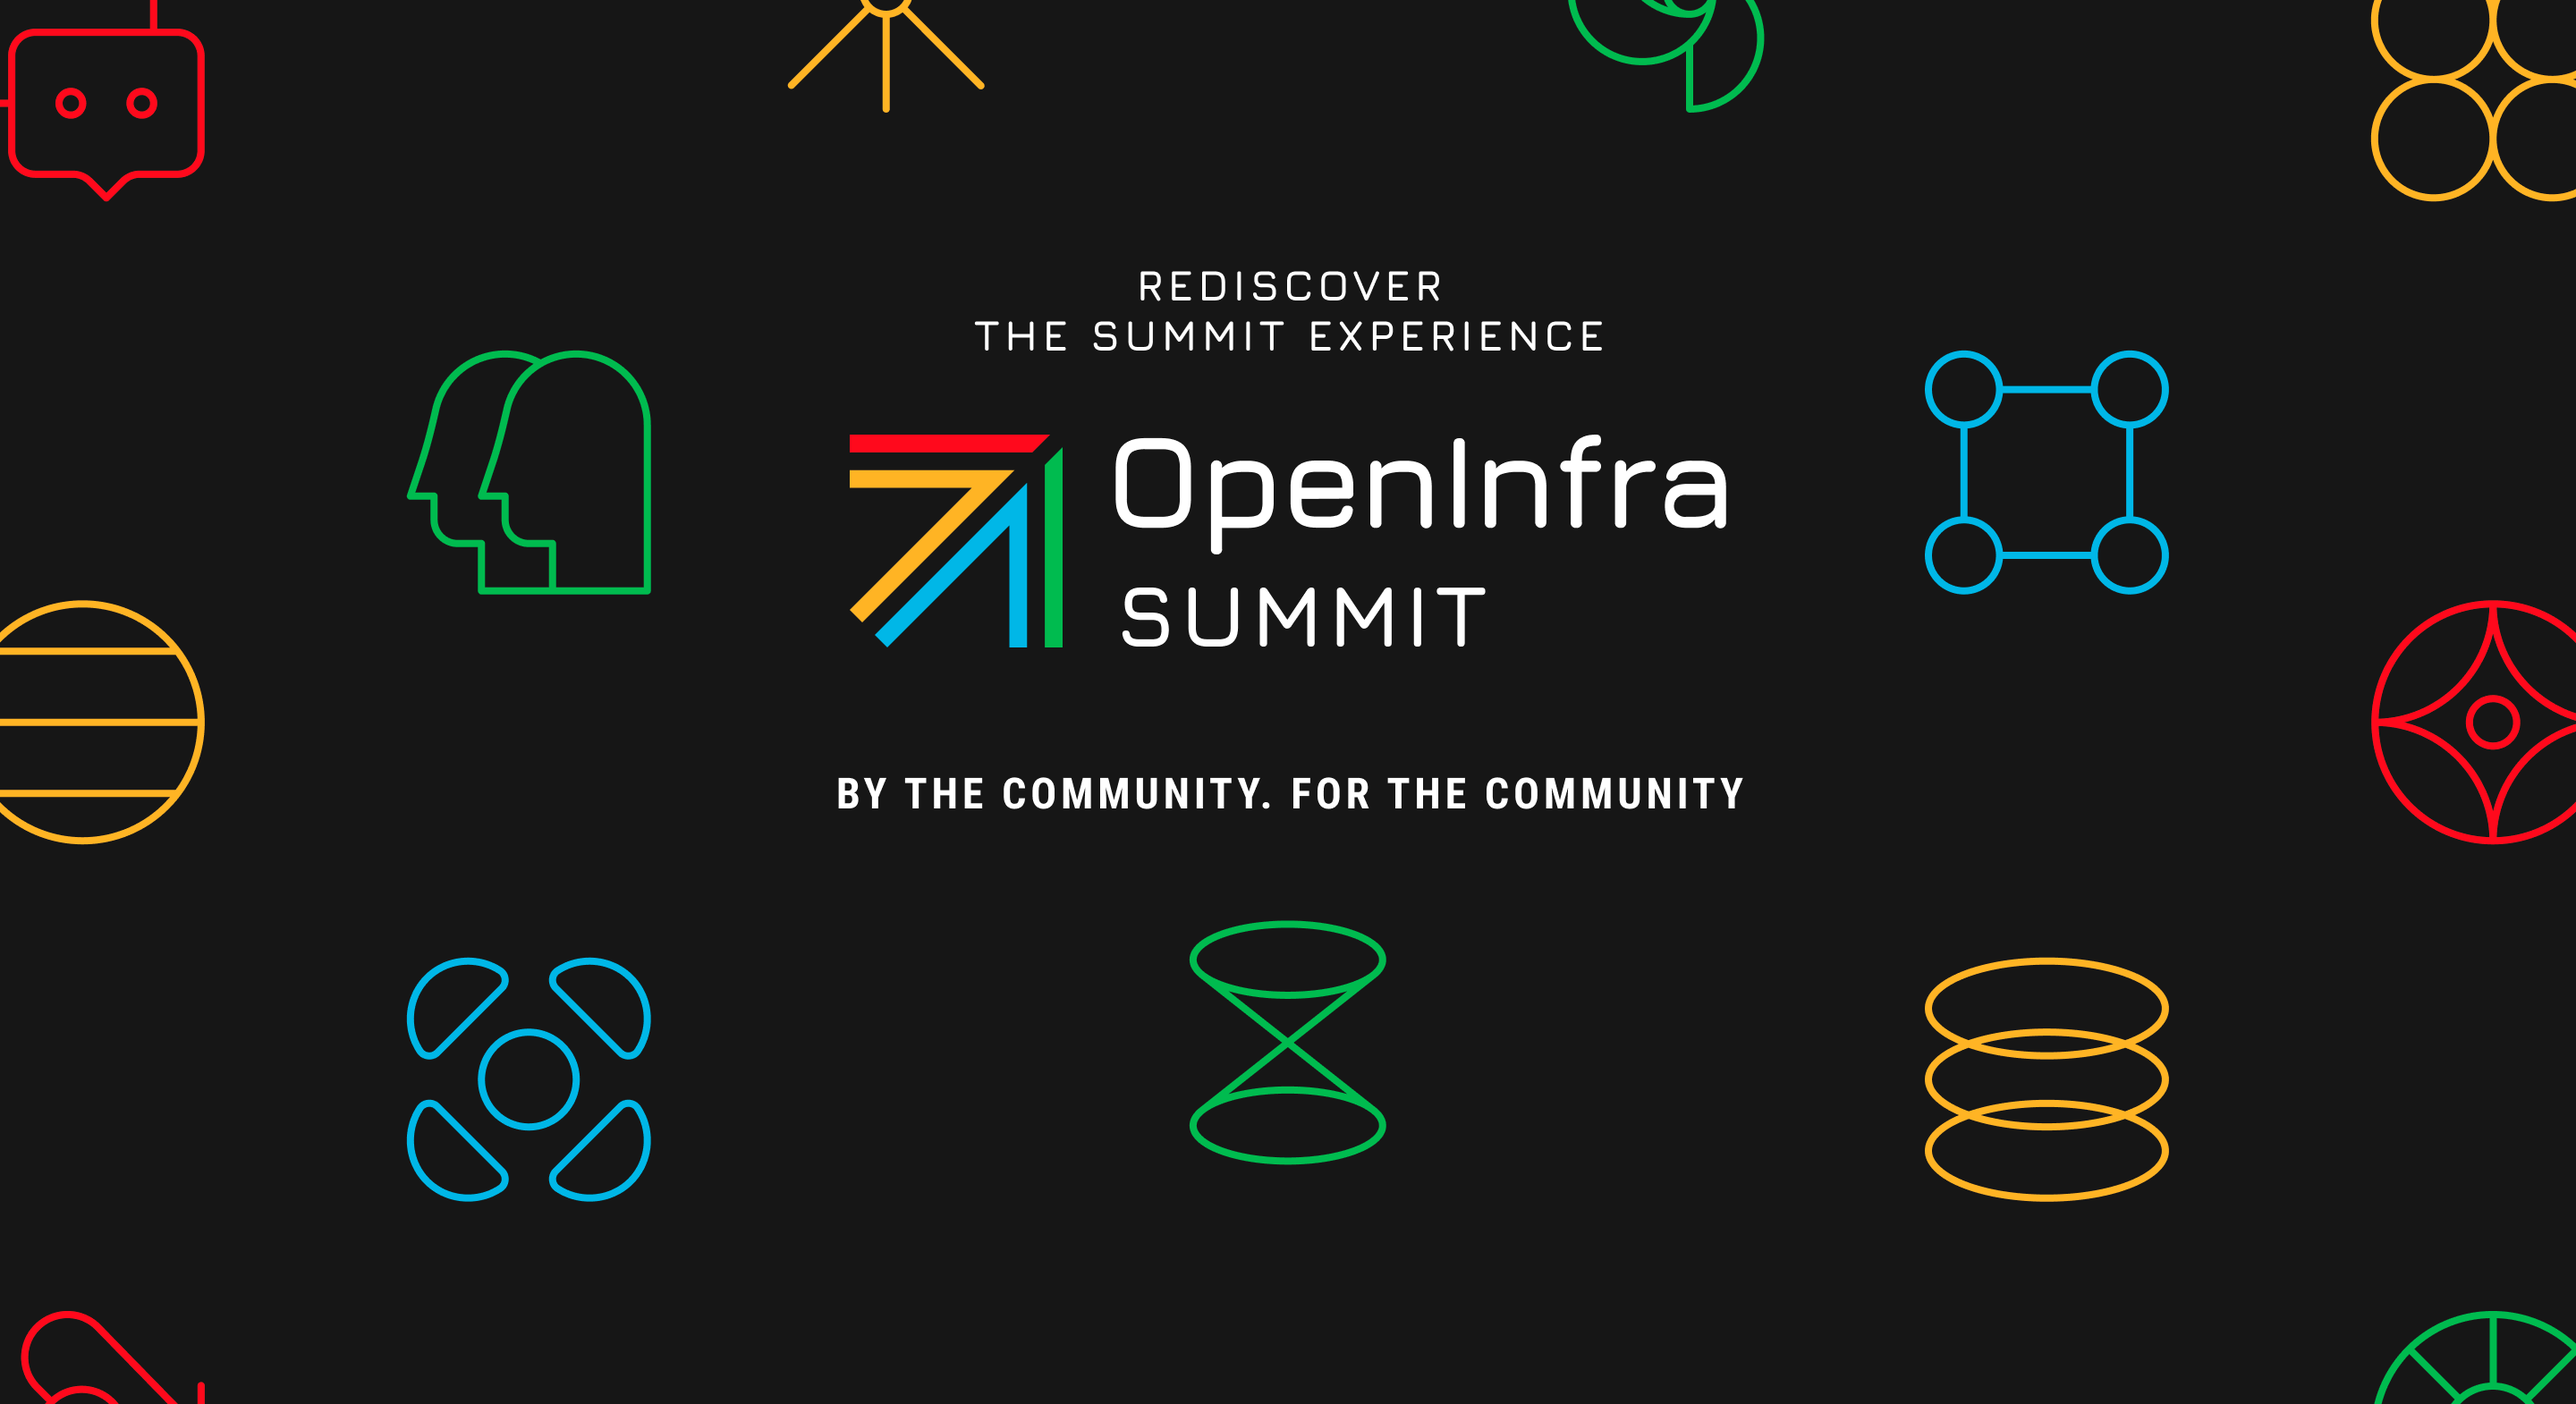
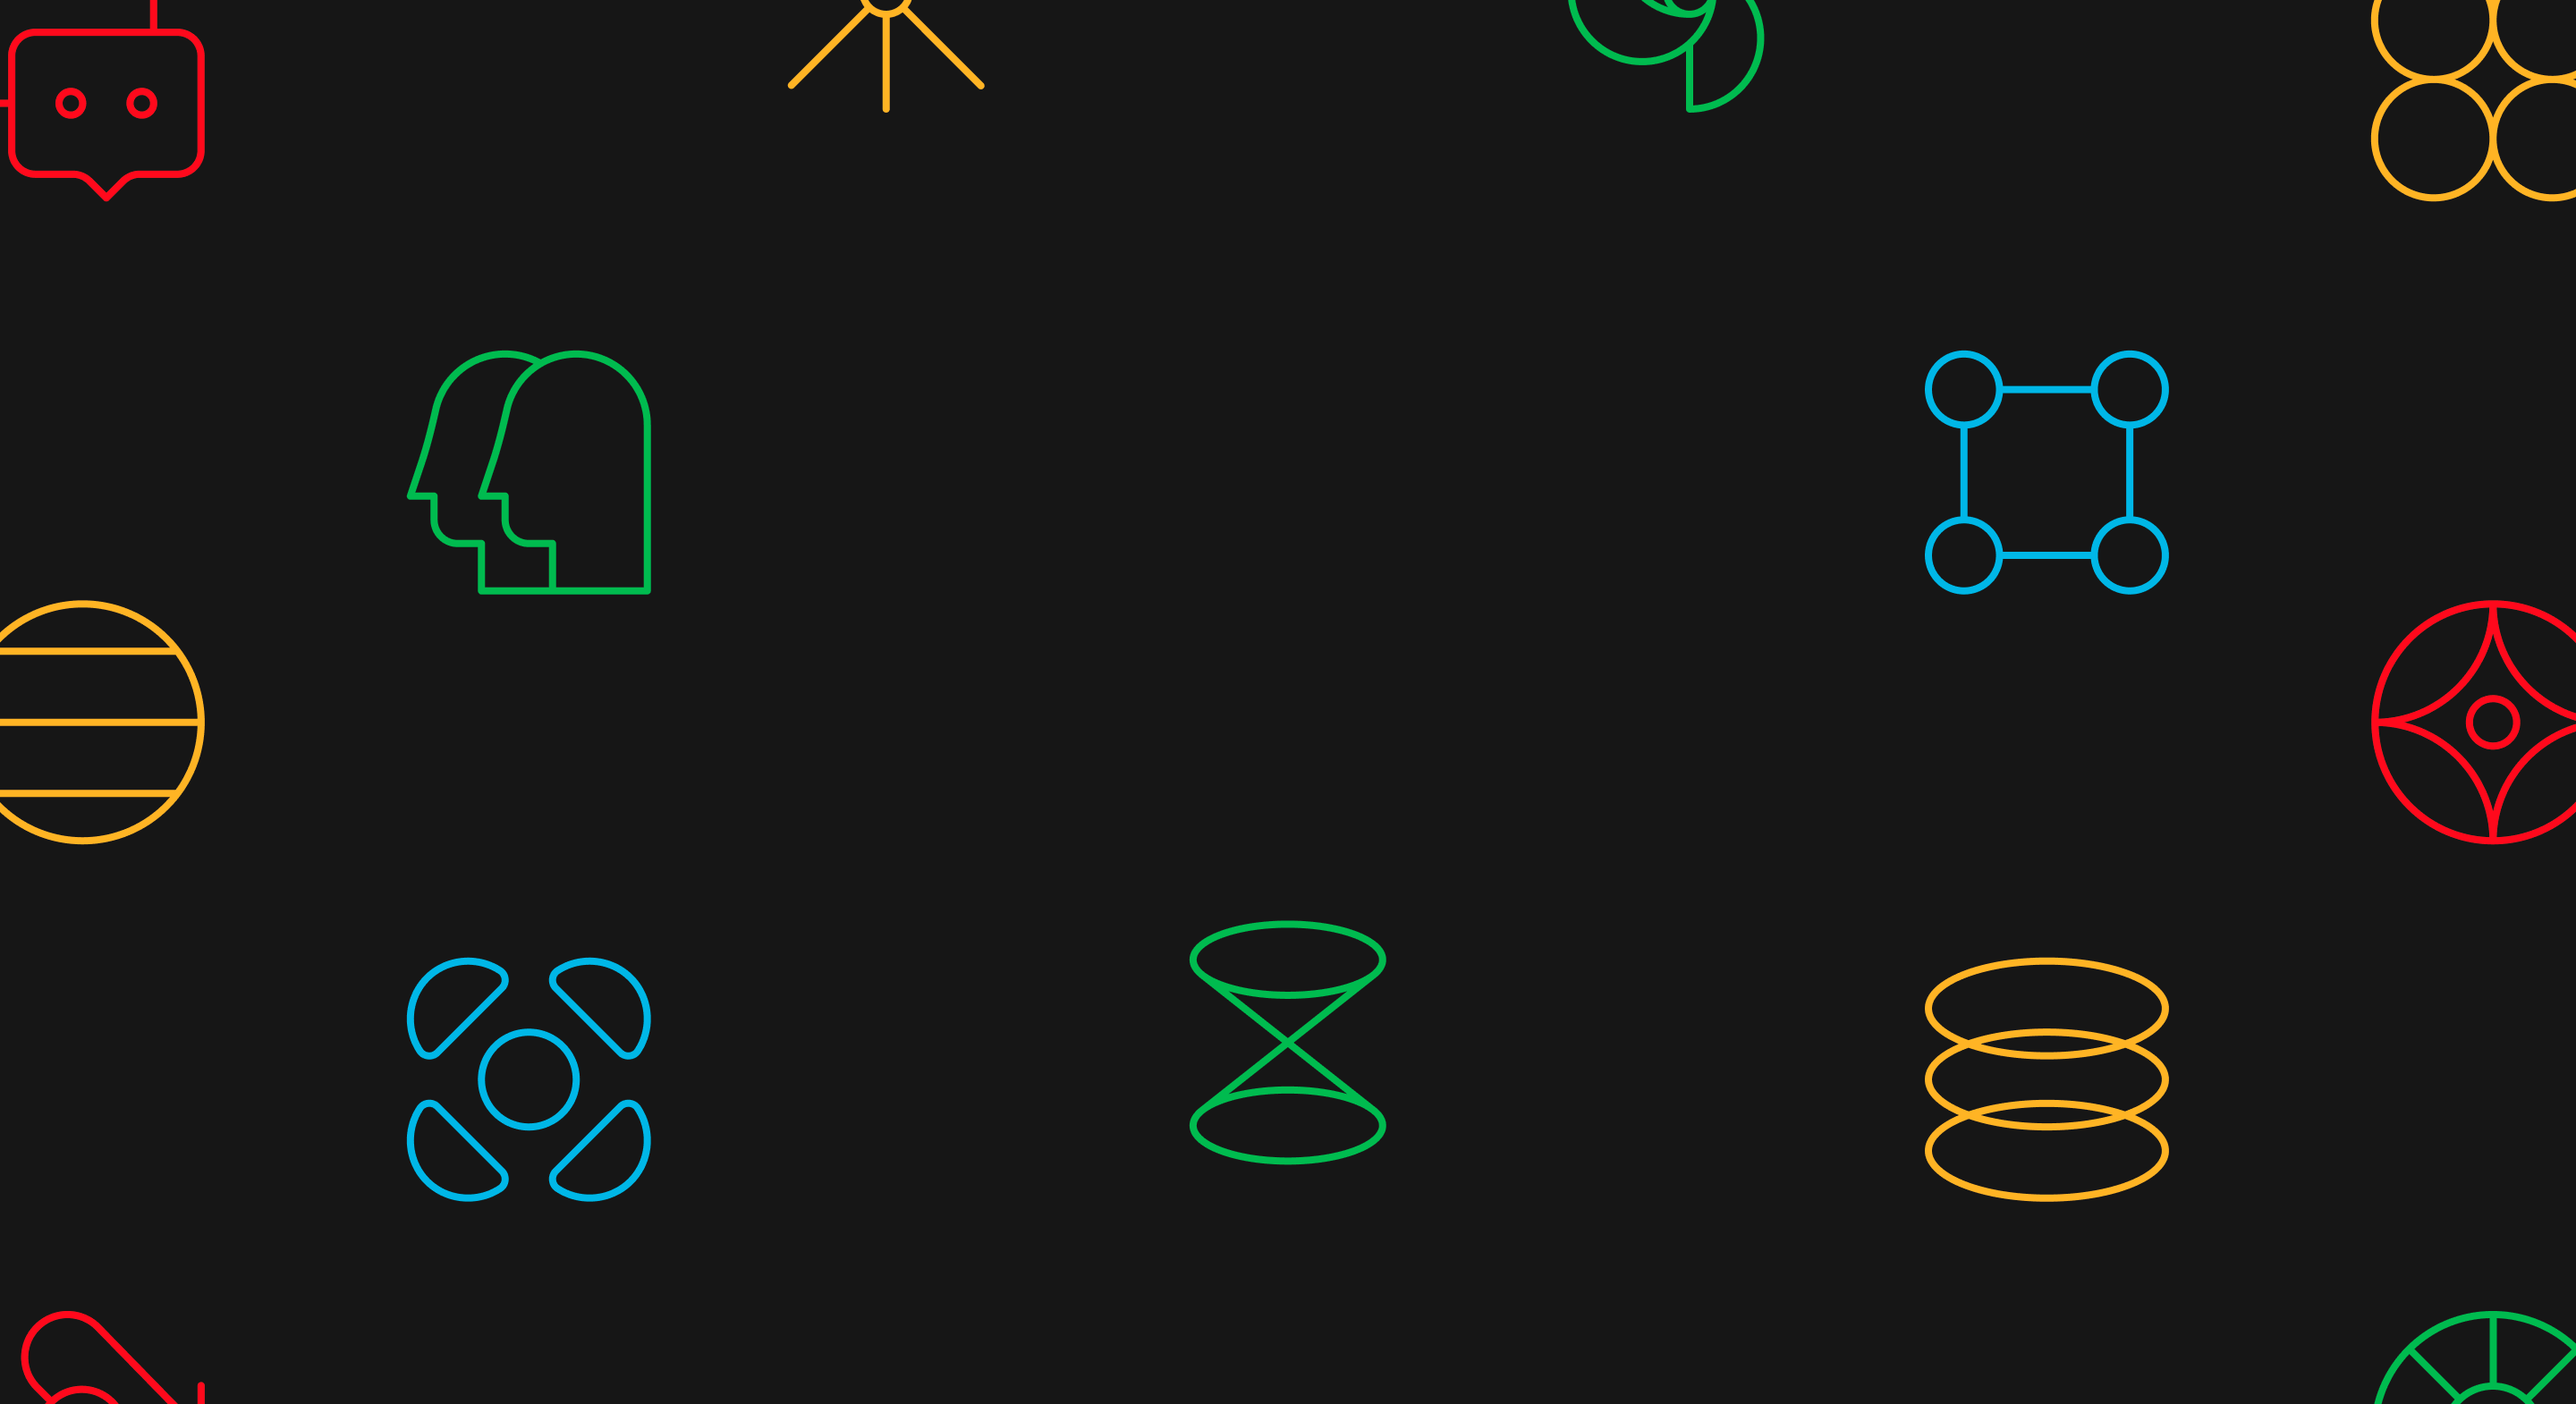
change header

Changed region(s): [[0.3125, 0.3121, 0.6875, 0.4682], [0.3125, 0.5306, 0.6562, 0.593], [0.375, 0.1873, 0.625, 0.2497]]

diff --git a/src/templates/summit-landing-page.js b/src/templates/summit-landing-page.js
@@ -7,17 +7,18 @@ import TopBar from "../components/TopBar";
 import NavbarV2 from "../components/NavbarV2";
 import SEO from "../components/SEO";
 import HeaderImage from "../components/HeaderImage";
-import hero from '../../static/img/summit-landing/summit-landing-hero.png';
 import SponsorBanner from "../components/SponsorBanner";
 import SubHeader from "../components/SubHeader";
 import PreviousSummits from "../components/PreviousSummits";
-import SummitCard from "../components/SummitCard";
-
 import CommunityEvents from "../components/CommunityEvents";
 import UpcomingSummits from "../components/UpcomingSummits";
 import MeetupBanner from "../components/MeetupBanner";
 import BottomBanner from "../components/BottomBanner";
 import MiddleBanner from "../components/MiddleBanner";
+
+import hero from '../../static/img/summit-landing/summit-landing-hero.png';
+import logo from '../../static/img/summit-landing/openinfra-logo.png';
+
 
 export const SummitLandingPageTemplate = ({
                                        isLoggedUser,
@@ -31,7 +32,12 @@ export const SummitLandingPageTemplate = ({
       <div className="wrapper project-background">
         <TopBar />
         <NavbarV2 isLoggedUser={isLoggedUser} />
-        <HeaderImage backgroundImage={hero} />
+        <HeaderImage
+          backgroundImage={hero}
+          overview={<>Rediscover <br /> THE SUMMIT EXPERIENCE</>}
+          caption="By the Community. For the Community."
+          logo={{src: logo, alt: 'Openinfra logo'}}
+        />
         <SubHeader />
         <UpcomingSummits title={'Upcoming OpenInfra Summits'} />
         <MiddleBanner

diff --git a/src/style/modules/_sub_header.scss b/src/style/modules/_sub_header.scss
@@ -12,12 +12,20 @@
     border-radius: 16px;
     height: 100%;
     position: relative;
-    top: -150px;
+    top: -50px;
     padding: 0;
     overflow: hidden;
 
+    @media(min-width: 767px) {
+      top: -80px;
+    }
+
+    @media(min-width: 1024px) {
+      top: -150px;
+    }
+
     .body {
-      margin: 25px 10px 100px;
+      margin: 25px 10px 80px;
       text-align: center;
       font-size: 16px;
       font-family: 'Roboto Flex', sans-serif;
@@ -27,7 +35,7 @@
       color: black;
 
       @media(min-width: 767px) {
-        margin: 55px 50px 200px;
+        margin: 55px 50px 100px;
       }
 
       @media(min-width: 1024px) {
@@ -38,9 +46,13 @@
         text-transform: uppercase;
         font-family: "Jura", "Helvetica", sans-serif;
         font-weight: 500;
-        font-size: 18px;
+        font-size: 16px;
 
         @media(min-width: 767px) {
+          font-size: 18px;
+        }
+
+        @media(min-width: 1024px) {
           font-size: 24px;
         }
       }
@@ -49,13 +61,18 @@
         text-transform: uppercase;
         font-family: 'Roboto Condensed', sans-serif;
         font-weight: bold;
-        font-size: 32px;
-        line-height: 38px;
+        font-size: 28px;
+        line-height: 30px;
         max-width: 500px;
         margin: 30px 0;
 
 
         @media(min-width: 767px) {
+          font-size: 32px;
+          line-height: 38px;
+        }
+
+        @media(min-width: 1024px) {
           font-size: 48px;
           line-height: 54px;
         }

diff --git a/src/style/modules/_header_image.scss b/src/style/modules/_header_image.scss
@@ -2,10 +2,15 @@
 	Header Image
 \* ------------------------------------------------------------ */
 
-.hero-main-v2 {
+.hero-main-v2.header-image {
   height: 300px;
   background-size: cover;
-  background-position: center;
+  background-position: top;
+  display: flex;
+  flex-direction: column;
+  align-items: center;
+  justify-content: center;
+  text-align: center;
 
   @media(min-width: 767px) {
     height: 500px;
@@ -13,5 +18,54 @@
 
   @media(min-width: 1024px) {
     height: 785px;
+  }
+
+  img {
+    width: 262px;
+    margin: 10px 0 20px;
+
+    @media(min-width: 767px) {
+      width: 320px;
+      margin: 20px 0 30px;
+    }
+
+    @media(min-width: 1024px) {
+      width: 490px;
+      margin: 40px 0 60px;
+    }
+  }
+
+  .overview {
+    text-transform: uppercase;
+    font-family: "Jura", "Roboto", sans-serif;
+    font-weight: bold;
+    font-size: 14px;
+    color: white;
+
+    @media(min-width: 767px) {
+      font-size: 20px;
+    }
+
+    @media(min-width: 1024px) {
+      letter-spacing: 5px;
+      font-size: 24px;
+    }
+  }
+
+  .caption {
+    text-transform: uppercase;
+    font-family: 'Roboto Condensed', sans-serif;
+    font-weight: bold;
+    font-size: 14px;
+    color: white;
+
+    @media(min-width: 767px) {
+      font-size: 20px;
+    }
+
+    @media(min-width: 1024px) {
+      letter-spacing: 3px;
+      font-size: 24px;
+    }
   }
 }

diff --git a/src/components/HeaderImage.js b/src/components/HeaderImage.js
@@ -2,11 +2,15 @@ import React from 'react'
 
 import '../style/modules/_header_image.scss'
 
-const HeaderImage = ({backgroundImage}) => {
+const HeaderImage = ({backgroundImage, overview, logo, caption}) => {
   return (
     <main className="main">
-      <section className="hero-main-v2" style={{backgroundImage: `url(${backgroundImage})`}}>
-        <div className="container"></div>
+      <section className="hero-main-v2 header-image" style={{backgroundImage: `url(${backgroundImage})`}}>
+        <div className="container">
+          <p className="overview">{overview}</p>
+          <img src={logo.src} alt={logo.alt} />
+          <p className="caption">{caption}</p>
+        </div>
       </section>
     </main>
   )
